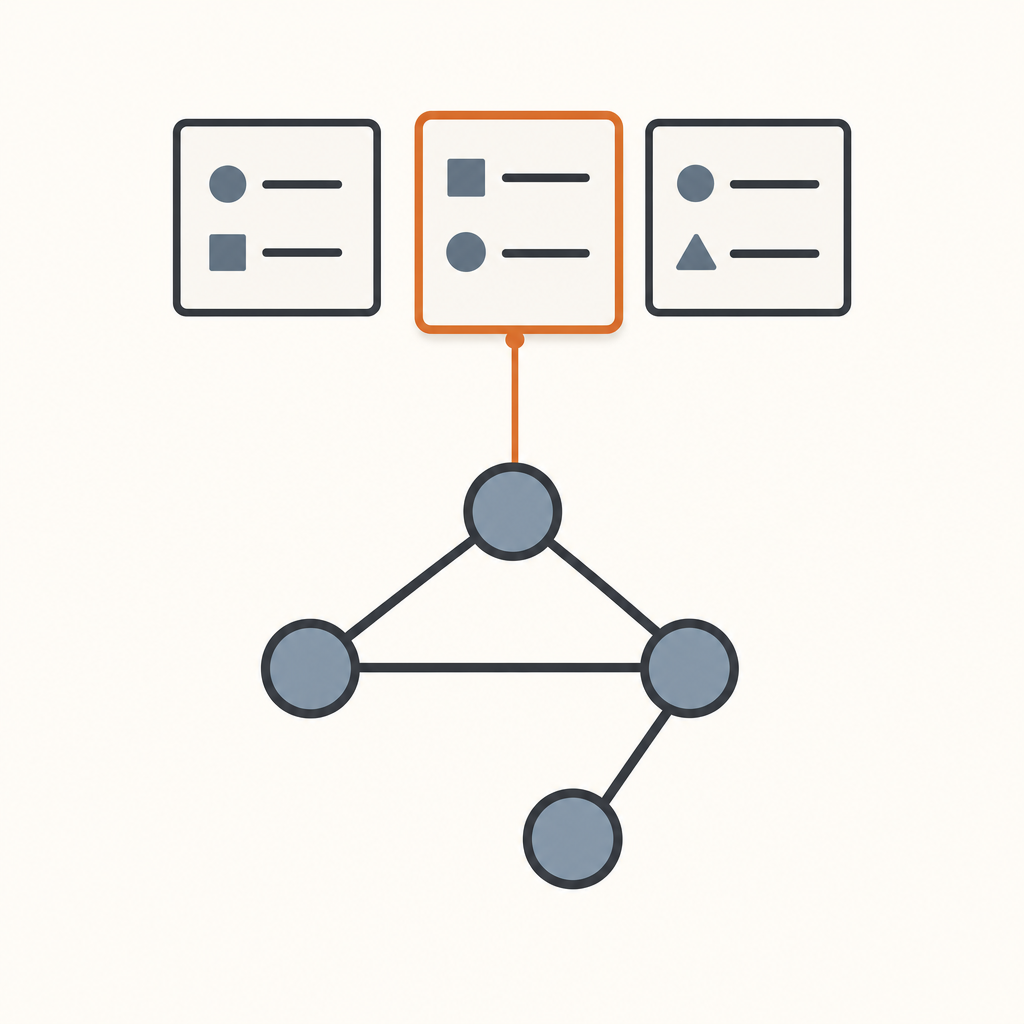
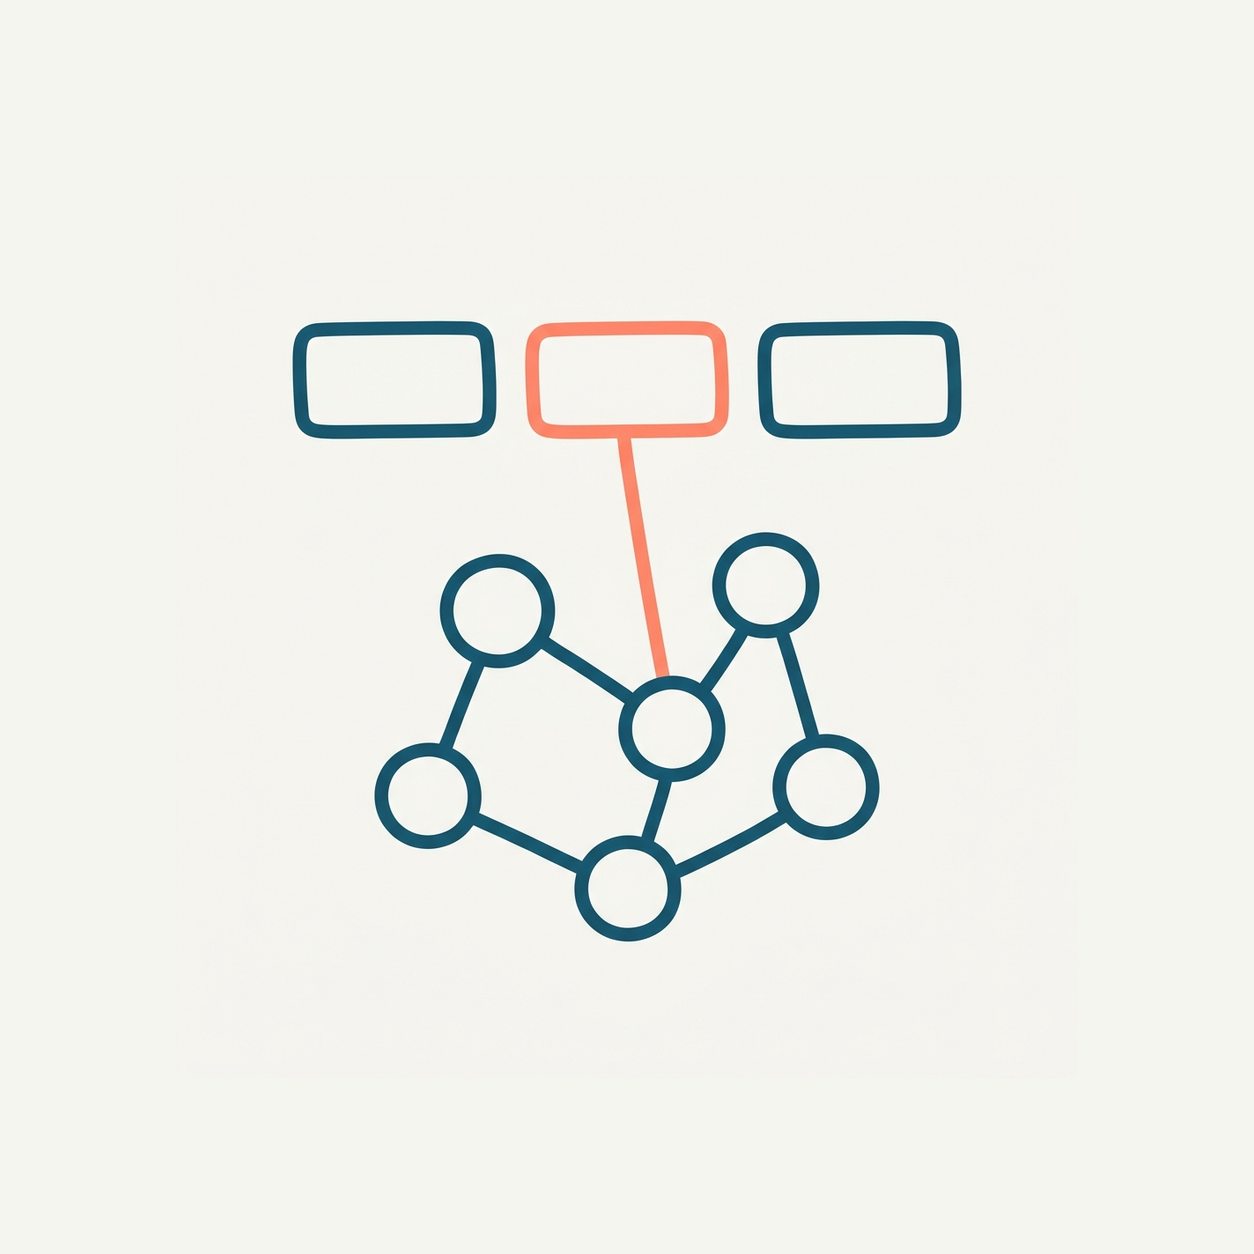
Themed card for RoomKG Meta-Policies + house theme in image-prompts
- docs/design/image-prompts.md gains a "House theme" section derived from
  the icon: four exact color roles (#faf8f5 ground, #1a5f7a teal ink,
  #2a2a2a contrast, #ff8f70 single accent), flat diagram language, 5-8
  elements, center-weighted with 15% safe margins because cards render at
  both 5:6 and 16:11, no text ever.
- Regenerated the meta-policies card in that theme with
  google/gemini-3-pro-image, padded to 1254x1254 crop-safe, verified
  against both display crops.
- arcadedb page: dropped the second "not just" on one page.

Claude-Session: https://claude.ai/code/session_018ysoM8CtUTTKUTAEqeiVYr

Changed region(s): [[0.1562, 0.0938, 0.8438, 0.875]]

diff --git a/src/lib/projects/items/arcadedb-embedded-python.ts b/src/lib/projects/items/arcadedb-embedded-python.ts
@@ -59,7 +59,7 @@ export const arcadeDbEmbeddedPython: Project = {
         eyebrow: "Surface",
         title: "Expose a real Python package surface instead of a thin wrapper.",
         body: [
-          "This subproject is not just a launcher around the upstream engine. It exposes transactions, schema management, graph helpers, export paths, and vector-related capabilities as a maintained Python package surface.",
+          "This subproject is more than a launcher around the upstream engine. It exposes transactions, schema management, graph helpers, export paths, and vector-related capabilities as a maintained Python package surface.",
           "That is the real reason it exists as a standalone subproject: to make ArcadeDB feel like a usable Python dependency rather than a one-off interoperability experiment.",
         ],
         figure: {

diff --git a/docs/design/image-prompts.md b/docs/design/image-prompts.md
@@ -5,6 +5,28 @@ The set is intentionally redundant so you do not need to remember shared style r
 Important overall direction:
 Bias strongly toward simplified editorial illustration, not screenshot realism. Use a small number of large visual elements, clear shapes, and calm negative space. Suggest systems and structure without rendering tiny UI chrome, tiny text, dense dashboards, or photoreal software screens.
 
+## House theme (2026-07 revision)
+
+Derived from the HumemAI icon (a single-color head silhouette holding a small
+knowledge graph) and the site's existing accents. Every prompt below should be read
+with, and every new prompt should include, these constraints:
+
+- Palette, exactly four roles: warm off-white background (#faf8f5), deep brand teal
+  (#1a5f7a) as the one structural ink for shapes and strokes, soft charcoal
+  (#2a2a2a) only where teal needs contrast, and warm coral (#ff8f70) as a single
+  small accent for the one element that matters. Nothing else. No gradients, no
+  lighting, no texture.
+- Flat diagram language: thick even strokes, simple filled shapes, five to eight
+  visual elements total. If it could not be redrawn by hand in two minutes, it is
+  too detailed.
+- Composition must be center-weighted with at least 15 percent quiet margin on every
+  side, because the site crops the same source to both 5:6 portrait and 16:11
+  landscape. Nothing important near any edge.
+- Absolutely no text, letters, numbers, or letter-like glyph rows baked into the
+  image.
+- Motif kinship with the icon is welcome: small knowledge graphs of a few round
+  nodes and plain edges are the house symbol for memory.
+
 ## 1. Homepage Hero
 
 ```text
